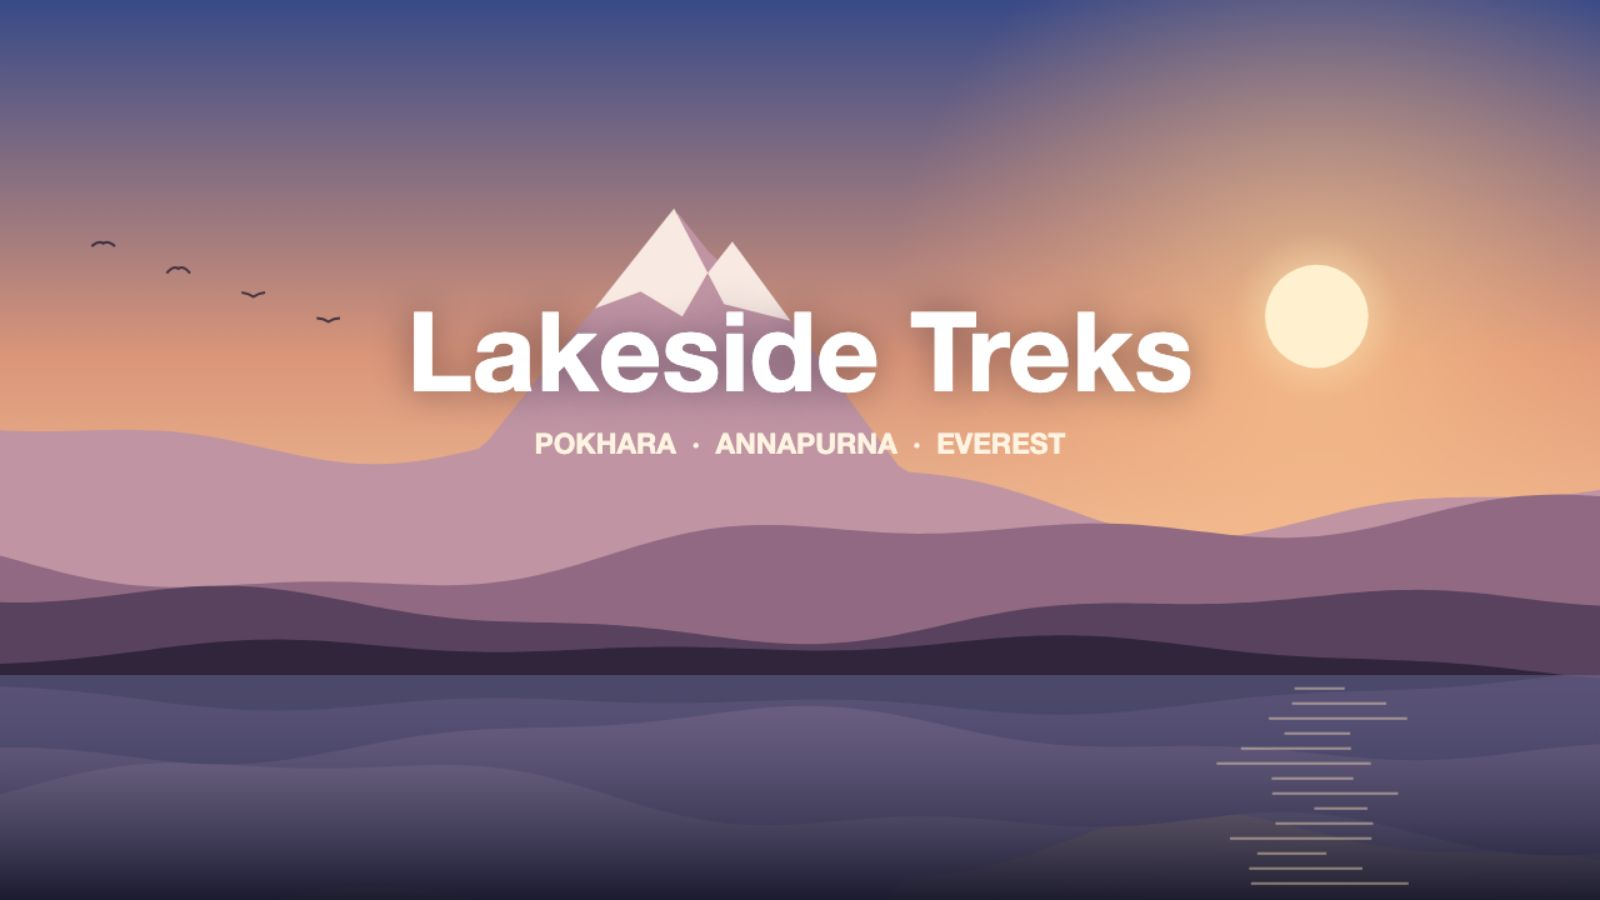
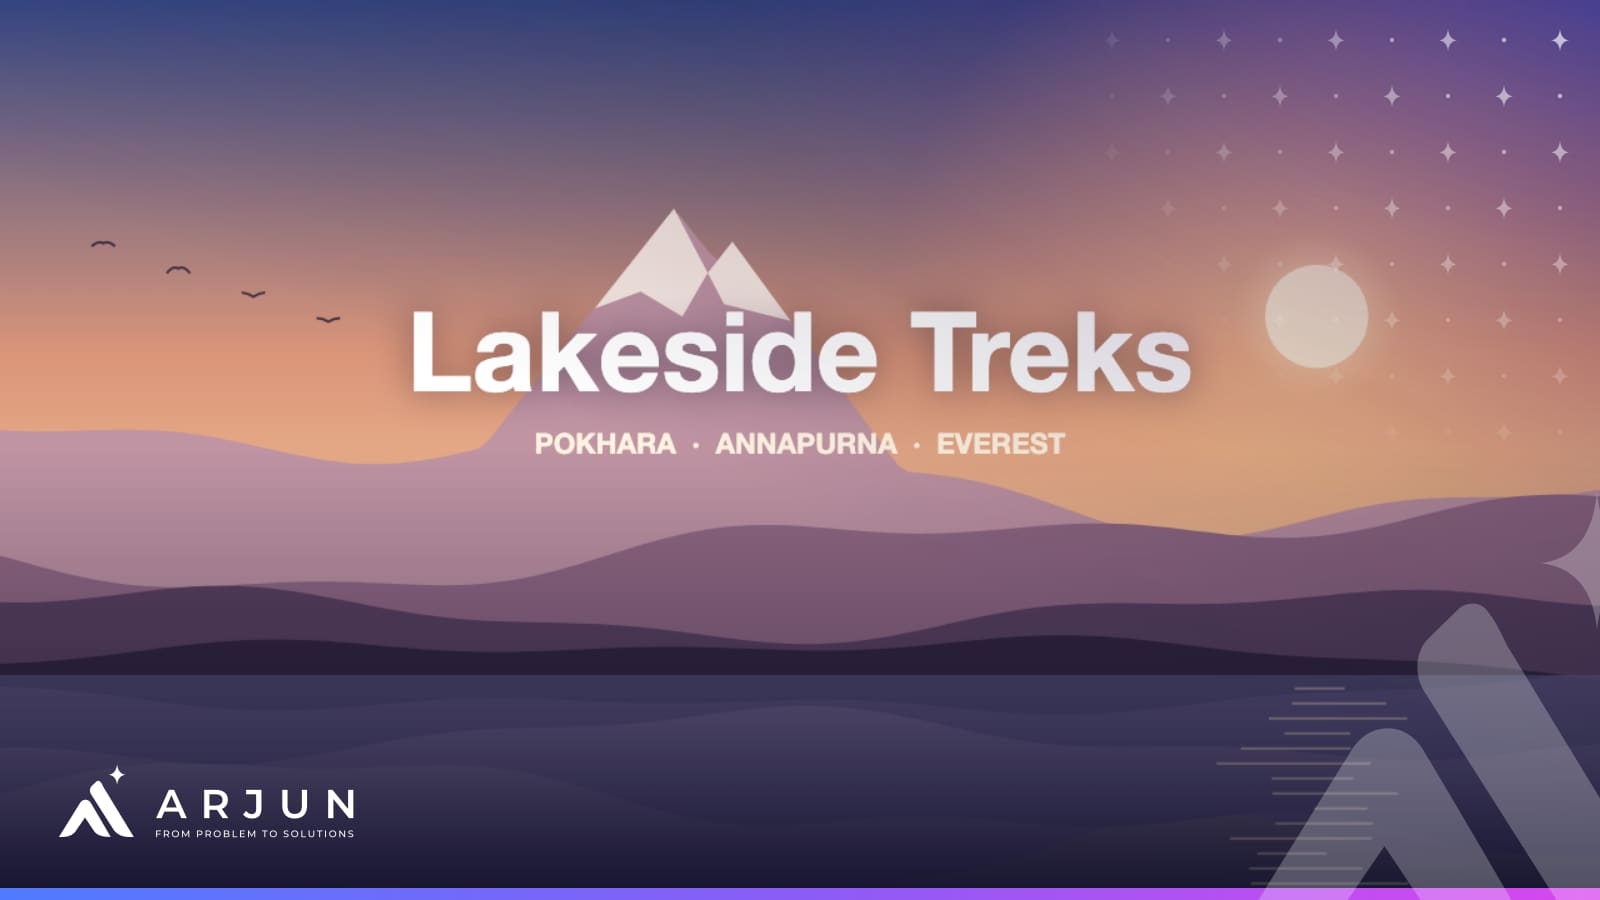
Branded hero images on all 26 blog posts
Pexels photos with the ARJUN logo, kit watermark, spark pattern and Aurora
band; credits kept in frontmatter, not rendered. Script in scripts/media.

diff --git a/docs/PROJECT-CONTEXT.md b/docs/PROJECT-CONTEXT.md
@@ -774,3 +774,16 @@ table, 4 FAQs and 5+ internal links; they cross-link each other.
 | The video post's example is real, made by Claude | `public/media/blog/video/`: the HTML canvas animation Claude wrote (noindex), the 15 s 720p H.264 MP4 rendered frame-by-frame with Playwright + ffmpeg (imageio-ffmpeg in a scratch venv; neither is a project dependency), and a poster frame. The post says plainly Claude writes code, not pixels. |
 | `.prose-site video` rule added | Same frame as in-body images; `preload="none"` + poster so the 720 KB file loads only on play. No VideoObject schema: Google only surfaces video results when the video is the page's main content. |
 | Hero images | The video post's hero is a 1600×900 frame of the animation. The other five declare `heroImage` with briefs in `public/media/blog/README.txt` and render text-first until the files land. |
+
+### Branded hero images on every post — 2026-10-10
+
+Owner asked for open-source images on all posts with his branding,
+watermark and a pattern. 25 Pexels photos (free licence, modification
+allowed, picked by eye from six candidates each, professional/editorial
+per his 09-22 feedback) plus the video post's own animation frame, each run
+through `scripts/media/brand-blog-hero.mjs`: white horizontal logo with slogan
+bottom-left (kit: `_white` on photography), the kit's 25% watermark mark
+bottom-right, a pattern of the mark's spark alternating with dots fading from
+the top-right, and a 12 px Aurora band. Credits stored in
+`heroImage.credit`, never rendered. Swap any photo by re-running the script
+on a new source; filenames equal the slug.

diff --git a/src/content/blog/posts/automate-quotation-generation.md b/src/content/blog/posts/automate-quotation-generation.md
@@ -23,6 +23,16 @@ faqs:
   - id: "faq-complex-pricing"
     question: "Our pricing is complicated. Can it still work?"
     answer: "Complicated is fine as long as it is expressible as rules, even many of them. What does not automate is pricing that depends on judgement about the client — how much they will tolerate, whether they are likely to be difficult. That part stays with a person, which is why the approval step exists."
+heroImage:
+  src: "/media/blog/automate-quotation-generation.jpg"
+  alt: "Hands working through business documents with a pen and a calculator on a desk"
+  width: 1600
+  height: 900
+  credit:
+    provider: "Pexels"
+    author: "Mikhail Nilov"
+    authorUrl: "https://www.pexels.com/@mikhail-nilov"
+    sourceUrl: "https://www.pexels.com/photo/person-in-long-sleeve-shirt-holding-a-calculator-8297031/"
 ---
 
 Of every process I have automated, quotation generation is the one that most reliably pays for itself. It passes every test worth applying: high frequency, rule-based logic, structured inputs, and a natural human checkpoint before anything reaches a client.

diff --git a/src/content/blog/posts/aeo-vs-seo-vs-geo-nepal.md b/src/content/blog/posts/aeo-vs-seo-vs-geo-nepal.md
@@ -27,6 +27,16 @@ faqs:
   - id: "faq-measure-geo"
     question: "How do you measure whether GEO is working?"
     answer: "There is no rank tracker for ChatGPT citations, and anyone claiming otherwise is guessing. The workable method is testing a fixed set of category questions across the major models monthly, recording which sources get named, and watching branded search volume, which tends to climb as you appear in more answers."
+heroImage:
+  src: "/media/blog/aeo-vs-seo-vs-geo-nepal.jpg"
+  alt: "A professional working on a laptop at a desk in a modern open-plan office"
+  width: 1600
+  height: 900
+  credit:
+    provider: "Pexels"
+    author: "Kampus Production"
+    authorUrl: "https://www.pexels.com/@kampus"
+    sourceUrl: "https://www.pexels.com/photo/woman-in-white-blazer-sitting-at-table-using-laptop-8636622/"
 ---
 
 Three acronyms now describe getting found online, and they are routinely used interchangeably by people selling all three. They are not the same thing. They target different surfaces, reward different content shapes, and pay off on different timelines.

diff --git a/src/content/blog/posts/processes-worth-automating-first.md b/src/content/blog/posts/processes-worth-automating-first.md
@@ -23,6 +23,16 @@ faqs:
   - id: "faq-all-at-once"
     question: "Can we automate several at once?"
     answer: "You can, and I would advise against it for a first engagement. One workflow delivered end to end, run in parallel with the manual process, gives you evidence about whether the approach fits your business before you commit further budget."
+heroImage:
+  src: "/media/blog/processes-worth-automating-first.jpg"
+  alt: "An office worker sorting through boxes of paper files"
+  width: 1600
+  height: 900
+  credit:
+    provider: "Pexels"
+    author: "cottonbro studio"
+    authorUrl: "https://www.pexels.com/@cottonbro"
+    sourceUrl: "https://www.pexels.com/photo/a-woman-looking-at-the-documents-6538577/"
 ---
 
 Not everything should be automated, and the most enthusiastic candidate is rarely the right one. These seven come up repeatedly because they share three properties: high frequency, rules that can be written down, and a natural point where a person checks the output before it matters.

diff --git a/src/content/blog/posts/why-your-website-isnt-ranking-nepal.md b/src/content/blog/posts/why-your-website-isnt-ranking-nepal.md
@@ -23,6 +23,16 @@ faqs:
   - id: "faq-rebuild-needed"
     question: "Do we need to rebuild the site?"
     answer: "Usually not. A rebuild only becomes the cheaper option when the platform blocks fundamentals — no control over page titles, unfixable page speed, or URLs that change on every edit. An audit tells you which situation you are in before you spend anything."
+heroImage:
+  src: "/media/blog/why-your-website-isnt-ranking-nepal.jpg"
+  alt: "A tablet showing a website traffic analytics dashboard beside a coffee cup"
+  width: 1600
+  height: 900
+  credit:
+    provider: "Pexels"
+    author: "AS Photography"
+    authorUrl: "https://www.pexels.com/@asphotography"
+    sourceUrl: "https://www.pexels.com/photo/black-samsung-tablet-computer-106344/"
 ---
 
 A site that does not rank is rarely broken in an exotic way. Across audits of Nepali business sites, the same six causes come up repeatedly — and they are usually cheaper to fix than the rebuild people assume they need.

diff --git a/src/content/blog/posts/website-speed-nepal.md b/src/content/blog/posts/website-speed-nepal.md
@@ -23,6 +23,16 @@ faqs:
   - id: "faq-images"
     question: "What is the single biggest quick win?"
     answer: "Images, almost always. Photos uploaded straight from a camera or phone at full resolution are frequently several megabytes each on a page that needed a few hundred kilobytes. Resizing and converting to WebP or AVIF often halves total page weight without touching anything else."
+heroImage:
+  src: "/media/blog/website-speed-nepal.jpg"
+  alt: "Hands holding a smartphone browsing a website"
+  width: 1600
+  height: 900
+  credit:
+    provider: "Pexels"
+    author: "RDNE Stock project"
+    authorUrl: "https://www.pexels.com/@rdne"
+    sourceUrl: "https://www.pexels.com/photo/close-up-shot-of-a-person-holding-an-iphone-5699374/"
 ---
 
 Speed advice tends to be written by people testing on fast connections. That produces guidance which is technically correct and practically useless for a business whose customers are on mobile data outside Kathmandu.

diff --git a/src/content/blog/posts/n8n-vs-zapier-vs-make-nepal.md b/src/content/blog/posts/n8n-vs-zapier-vs-make-nepal.md
@@ -23,6 +23,16 @@ faqs:
   - id: "faq-self-host-hard"
     question: "How hard is self-hosting n8n?"
     answer: "Straightforward to stand up with Docker, ongoing to maintain: updates, backups, monitoring, and someone who knows what to do when it stops. If nobody on your team owns infrastructure, the hosted version removes a real operational burden."
+heroImage:
+  src: "/media/blog/n8n-vs-zapier-vs-make-nepal.jpg"
+  alt: "Hands marking up a printed workflow diagram on a clipboard"
+  width: 1600
+  height: 900
+  credit:
+    provider: "Pexels"
+    author: "RDNE Stock project"
+    authorUrl: "https://www.pexels.com/@rdne"
+    sourceUrl: "https://www.pexels.com/photo/person-holding-white-printer-paper-9034966/"
 ---
 
 The three tools do the same job — connect systems, move data, run logic on a schedule or a trigger. They differ in pricing model, hosting, and who has to maintain them, and those differences matter more than the feature comparisons suggest.

diff --git a/src/content/blog/posts/evaluate-software-vendor-proposal.md b/src/content/blog/posts/evaluate-software-vendor-proposal.md
@@ -23,6 +23,16 @@ faqs:
   - id: "faq-review-existing"
     question: "Can someone review work a vendor has already delivered?"
     answer: "Yes. Technical due diligence on a delivered system covers code review, architecture assessment, and whether what was delivered matches what was contracted. Findings should be reported factually, since the goal is a working outcome rather than assigning blame."
+heroImage:
+  src: "/media/blog/evaluate-software-vendor-proposal.jpg"
+  alt: "Three business people reviewing documents together across a meeting table"
+  width: 1600
+  height: 900
+  credit:
+    provider: "Pexels"
+    author: "https://kaboompics.com/"
+    authorUrl: "https://www.pexels.com/@karola-g"
+    sourceUrl: "https://www.pexels.com/photo/woman-in-beige-blazer-holding-photos-7876092/"
 ---
 
 Three proposals arrive. They are different lengths, quote different numbers, and describe the work in incompatible terms. Nobody on your team writes software.

diff --git a/src/content/blog/posts/why-digital-projects-fail-nepal.md b/src/content/blog/posts/why-digital-projects-fail-nepal.md
@@ -23,6 +23,16 @@ faqs:
   - id: "faq-rescue"
     question: "Can a failing project be rescued?"
     answer: "Often, and more cheaply than restarting. The first step is an independent assessment of what exists — code review, architecture, and whether what was delivered matches what was contracted. Sometimes the build is sound and the process broke down, which is a much easier problem than it feels from inside."
+heroImage:
+  src: "/media/blog/why-digital-projects-fail-nepal.jpg"
+  alt: "Three colleagues in a tense discussion over documents at a meeting table"
+  width: 1600
+  height: 900
+  credit:
+    provider: "Pexels"
+    author: "Vlada Karpovich"
+    authorUrl: "https://www.pexels.com/@vlada-karpovich"
+    sourceUrl: "https://www.pexels.com/photo/a-meeting-in-an-office-7433869/"
 ---
 
 Across roughly 100 delivered projects, the ones that went wrong almost never went wrong for technical reasons. The technology was rarely the hard part.

diff --git a/src/content/blog/posts/ai-tools-for-students-nepal.md b/src/content/blog/posts/ai-tools-for-students-nepal.md
@@ -27,6 +27,16 @@ faqs:
   - id: "faq-students-citations"
     question: "Can I cite a source an AI assistant gave me?"
     answer: "Only after you have found and read the actual source yourself. Assistants routinely produce references that look correct — real journal, plausible authors, correct formatting — for papers that do not exist. Verify every citation in the original database before it goes anywhere near your bibliography."
+heroImage:
+  src: "/media/blog/ai-tools-for-students-nepal.jpg"
+  alt: "Two university students studying together with a laptop and books in a library"
+  width: 1600
+  height: 900
+  credit:
+    provider: "Pexels"
+    author: "Yan Krukau"
+    authorUrl: "https://www.pexels.com/@yankrukov"
+    sourceUrl: "https://www.pexels.com/photo/man-and-woman-studying-while-writing-on-a-notebook-8199667/"
 ---
 
 Most advice about AI tools for students is written by people who have never sat

diff --git a/src/content/blog/posts/chatgpt-vs-claude-vs-gemini.md b/src/content/blog/posts/chatgpt-vs-claude-vs-gemini.md
@@ -26,6 +26,16 @@ faqs:
   - id: "faq-compare-switching"
     question: "Is it hard to switch between assistants later?"
     answer: "No, and that is worth knowing before you agonise over the choice. The skill that transfers is knowing how to give context, structure a request and check the output. Prompts written for one assistant work substantially the same on another, so a switch costs an afternoon, not a retraining programme."
+heroImage:
+  src: "/media/blog/chatgpt-vs-claude-vs-gemini.jpg"
+  alt: "A businessman in a suit taking notes while comparing information on a laptop"
+  width: 1600
+  height: 900
+  credit:
+    provider: "Pexels"
+    author: "Gustavo Fring"
+    authorUrl: "https://www.pexels.com/@gustavo-fring"
+    sourceUrl: "https://www.pexels.com/photo/serious-businessman-taking-notes-and-working-on-project-4173358/"
 ---
 
 Every few months a new benchmark chart circulates showing one AI assistant

diff --git a/src/content/blog/posts/get-cited-by-chatgpt-perplexity.md b/src/content/blog/posts/get-cited-by-chatgpt-perplexity.md
@@ -24,6 +24,16 @@ faqs:
   - id: "faq-llms-txt-standard"
     question: "Is llms.txt an official standard?"
     answer: "No. It is an emerging convention rather than a ratified specification, and no model vendor guarantees they read it. It costs almost nothing to publish and removes ambiguity about what your business does, which is why it is worth doing anyway."
+heroImage:
+  src: "/media/blog/get-cited-by-chatgpt-perplexity.jpg"
+  alt: "Close-up of hands searching on a smartphone"
+  width: 1600
+  height: 900
+  credit:
+    provider: "Pexels"
+    author: "Theo  Decker"
+    authorUrl: "https://www.pexels.com/@theo-decker"
+    sourceUrl: "https://www.pexels.com/photo/person-wearing-bracelets-holding-black-phone-5448160/"
 ---
 
 Ask ChatGPT for a digital consultant in Kathmandu and it will name a handful of sources. Whether you are among them is not random, and it is not primarily about how big your website is.
